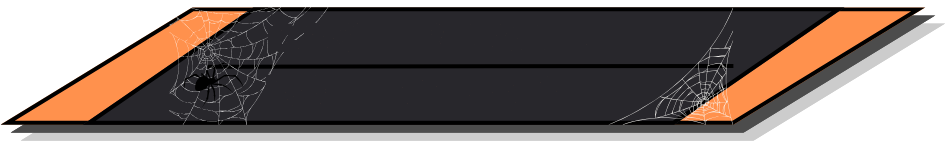
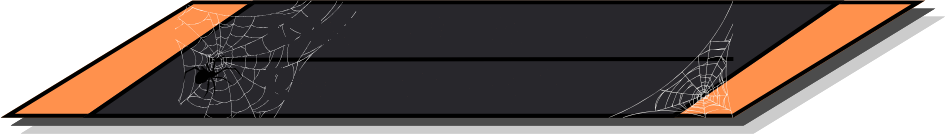
LOTD caster nameplate: MJ's fixed artwork (webs inside the plate), text positions re-measured
Claude-Session: https://claude.ai/code/session_01EH2LV7qib6DVyawUwUhBV6

Changed region(s): [[0.0, 0.0, 1.0, 0.8955], [0.0, 0.9254, 0.7979, 0.9552], [0.3069, 0.209, 0.3376, 0.2388]]

diff --git a/app/variant.js b/app/variant.js
@@ -18,10 +18,10 @@ const VARIANTS = {
     bg: "#0d0614",
     // the caster nameplate is MJ's own artwork (brand/lotd/nameplate.png, text removed) with the name and role set over it in its lettering
     css: `@font-face{font-family:"Montserrat";font-weight:800;font-display:swap;src:url(/fonts/montserrat-latin-800.woff2) format("woff2")}
-.np{width:380px;height:57px}.np .sh{display:none}
+.np{width:380px;height:54px}.np .sh{display:none}
 .np .bd{position:absolute;inset:0;display:block;padding:0;border:0;box-shadow:none;clip-path:none;background:url(/brand/lotd/nameplate.png) 0 0/100% 100% no-repeat}
 .np b,.np small{position:absolute;left:28.3%;font:800 15.5px/1 "Montserrat",sans-serif;letter-spacing:.01em;color:#f89048}
-.np b{top:7px;width:56%}.np small{top:29px;width:44%}`,
+.np b{top:4px;width:56%}.np small{top:26px;width:44%}`,
     // the overlay's greens and gold become a haunted purple and pumpkin orange when its stylesheet is served
     colors: [
       [/rgba\(5,\s*24,\s*17/g, "rgba(16,6,26"], [/rgba\(2,\s*14,\s*10/g, "rgba(9,3,15"], [/rgba\(8,\s*36,\s*25/g, "rgba(34,12,48"],

diff --git a/app/public/hud.js b/app/public/hud.js
@@ -211,7 +211,7 @@
      centred, and more share the desk evenly; when a row can't hold them (four plates for the standard 296 px plate, three for LOTD's
      380 px one) they go in rows, the upper row first. Every plate is one size. LOTD has its own plate artwork, so its size differs. */
   const EDITION = typeof document !== "undefined" && document.documentElement ? document.documentElement.getAttribute("data-variant") || "" : "";
-  const NP = EDITION === "lotd" ? { w: 380, y: 636, gap: 83 } : { w: 296, y: 623, gap: 96 };
+  const NP = EDITION === "lotd" ? { w: 380, y: 639, gap: 80 } : { w: 296, y: 623, gap: 96 };
   const NP_CAP = Math.floor(1240 / (NP.w + 10)); // plates a row can hold, with room between them
   const npRowX = (m, k) => (m === 1 ? 640 - NP.w / 2 : m === 2 ? [307, 907][k] - NP.w / 2 : Math.round(27 + k * (1280 - NP.w - 54) / (m - 1)));
   function casterSpot(i, n) {
